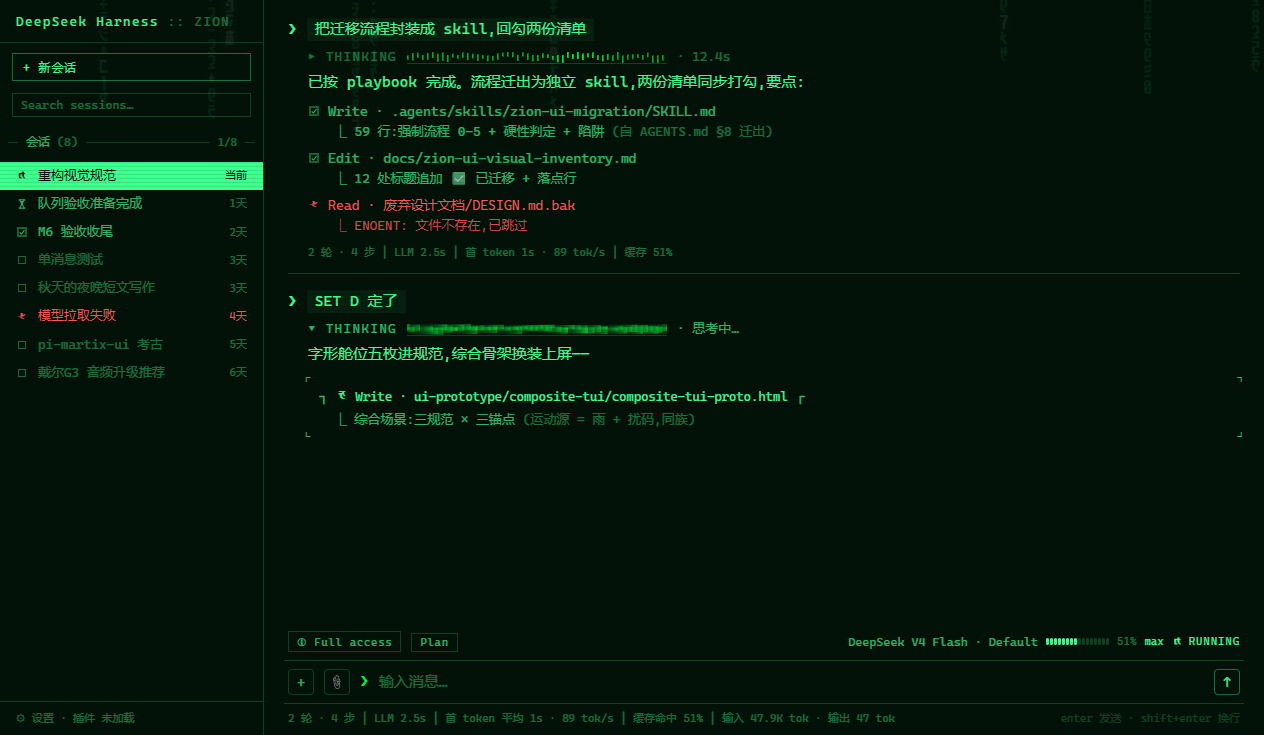
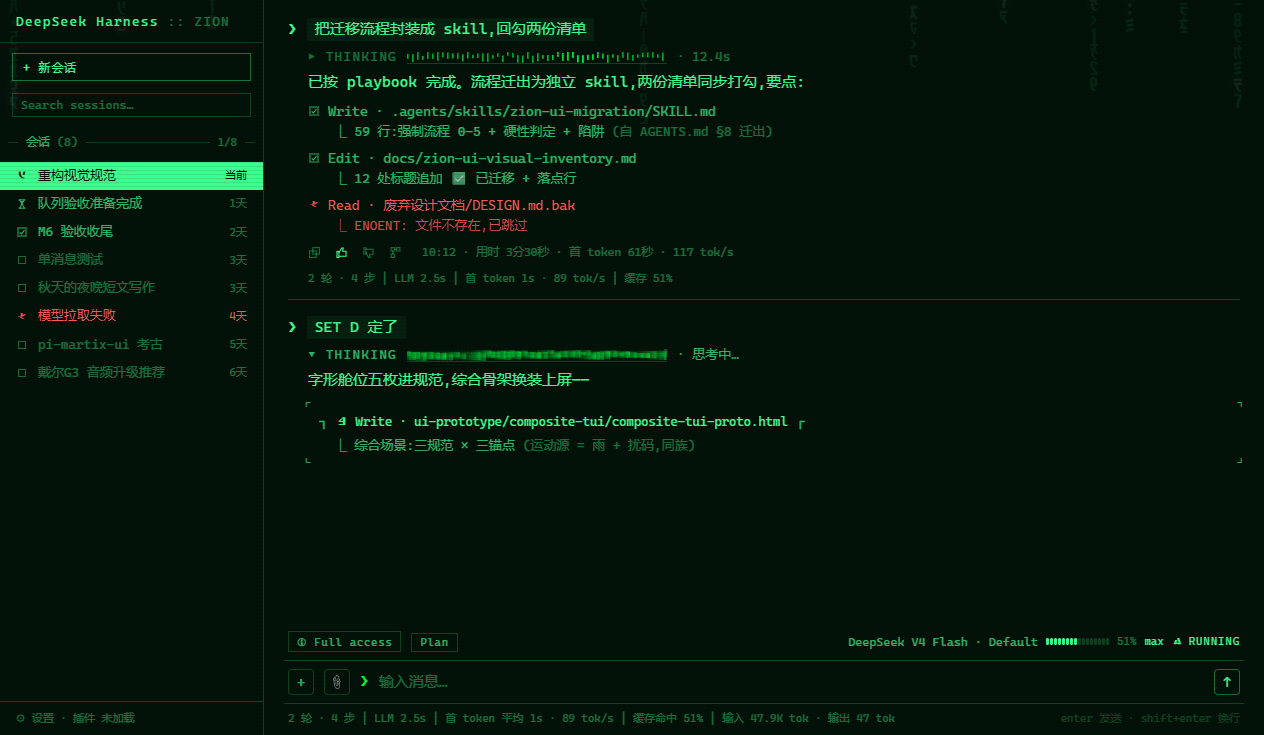
docs(design): §2.14 修订二定案——回复尾固定操作条(复制/赞/踩/分支 + meta 随行,V1 直角拇指),composite 换装

Changed region(s): [[0.2468, 0.3293, 0.6171, 0.6286], [0.4628, 0.0599, 0.4937, 0.0898]]

diff --git a/ui-prototype/msg-action-icons/reply-actions-proto.html b/ui-prototype/msg-action-icons/reply-actions-proto.html
@@ -1,0 +1,108 @@
+<!DOCTYPE html>
+<!-- PROTOTYPE — throwaway: C10 回复尾操作条(修订二)变体微 demo
+     官方口径(3080 实测 + 截图):每轮已结束回复的**底部固定**操作条——
+     复制 / 好的回答(👍,messageFeedback) / 有问题的回答(👎) / 分支(forkSession) 四枚图标常显;
+     meta(10:12 · 用时 3分30秒 · 首 token 61秒 · 117 tok/s)随行,40% 档。
+     裁决问题:赞/踩图标字形 + meta 布局——
+     V1 直角细线拇指 + meta 随行(官方直译) / V2 赞踩 = 舱内 ±(TUI 替代,不画拇指) / V3 直角拇指 + meta 贴行右端。 -->
+<html lang="zh">
+<head>
+<meta charset="utf-8">
+<title>C10 · 回复尾操作条</title>
+<style>
+  :root {
+    --bg: #010a04;
+    --surface: rgba(2, 18, 9, 0.92);
+    --p100: rgba(61, 255, 143, 1);
+    --p70: rgba(61, 255, 143, 0.7);
+    --p40: rgba(61, 255, 143, 0.4);
+    --p20: rgba(61, 255, 143, 0.2);
+    --font: "Share Tech Mono", ui-monospace, "Cascadia Mono", "Courier New", "Sarasa Term SC", "Microsoft YaHei", monospace;
+  }
+  * { margin: 0; padding: 0; box-sizing: border-box; }
+  body { background: var(--bg); color: var(--p100); font: 15px/1.55 var(--font); padding: 28px 32px; }
+  *::-webkit-scrollbar { width: 6px; height: 6px; }
+  *::-webkit-scrollbar-thumb { background: #00ff66; border-radius: 3px; }
+  *::-webkit-scrollbar-track, *::-webkit-scrollbar-corner { background: transparent; }
+
+  h1 { font-size: 13px; letter-spacing: 0.12em; margin-bottom: 4px; }
+  h1 .tag { color: var(--p40); }
+  .rule { color: var(--p70); font-size: 12px; margin-bottom: 20px; }
+  h2 { font-size: 11px; letter-spacing: 0.14em; color: var(--p70); margin: 22px 0 8px; text-transform: uppercase; }
+  h2::before { content: "─ "; color: var(--p40); }
+  h2 .d { color: var(--p40); letter-spacing: 0; text-transform: none; }
+
+  .lane { border: 1px solid var(--p20); background: var(--surface); padding: 14px 20px 16px; margin-bottom: 14px; }
+  .tail { color: var(--p70); font-size: 13px; margin: 0 0 2px 26px; }
+  .tail .x { color: var(--p40); }
+
+  /* 操作条:固定,图标 40% 档,hover 图标升 100%;meta 40% 档 tabular-nums */
+  .abar { display: flex; align-items: center; gap: 14px; margin: 8px 0 0 26px; }
+  .abar .ai { color: var(--p40); display: inline-flex; cursor: pointer; }
+  .abar .ai:hover { color: var(--p100); }
+  .abar .ai.on { color: var(--p100); } /* 已赞/已踩激活态 */
+  .abar .ai svg { width: 13px; height: 13px; display: block; }
+  .abar .meta { color: var(--p40); font-size: 11.5px; font-variant-numeric: tabular-nums; margin-left: 6px; }
+  .abar .meta.r { margin-left: auto; } /* V3 贴右端 */
+
+  .spec { display: flex; gap: 56px; margin: 10px 0 0 26px; }
+  .spec .cell { text-align: center; }
+  .spec .zoom { transform: scale(4); transform-origin: center; margin: 18px 0 8px; display: inline-block; color: var(--p70); }
+  .spec .nm { font-size: 10.5px; color: var(--p40); letter-spacing: 0.08em; margin-top: 2px; }
+
+  .note { color: var(--p40); font-size: 11px; line-height: 1.8; margin-top: 6px; }
+</style>
+</head>
+<body>
+
+<h1>C10 · 回复尾操作条(修订二)<span class="tag">— 固定在每轮已结束回复底部:复制 / 赞 / 踩 / 分支 + meta</span></h1>
+<div class="rule">官方直译:四枚图标常显 40% 档,hover 升 100%;已赞/已踩 = 激活态 100%。meta = 时间 · 用时 · 首 token · tok/s,40% 档。语境统一:一轮回复的最后一行(工具续行)之下。</div>
+
+<h2>V1 · 直角细线拇指 + meta 随行 <span class="d">官方直译:拇指形用 SET D 1px 方角语言重画,meta 跟图标组后</span></h2>
+<div class="lane">
+  <div class="tail">⎿ 12 处标题追加 ✅ 已迁移 + 落点行</div>
+  <div class="abar">
+    <span class="ai" title="复制"><svg viewBox="0 0 12 12"><rect x="4.5" y="1.5" width="6" height="6" fill="none" stroke="currentColor"/><rect x="1.5" y="4.5" width="6" height="6" fill="none" stroke="currentColor"/></svg></span>
+    <span class="ai on" title="好的回答"><svg viewBox="0 0 12 12"><path d="M1.8 5 H3.6 V10.6 H1.8 Z" fill="none" stroke="currentColor"/><path d="M3.6 6.2 L6.2 1.8 H7.6 L7 4.8 H10.2 V9.4 H3.6" fill="none" stroke="currentColor"/></svg></span>
+    <span class="ai" title="有问题的回答"><svg viewBox="0 0 12 12"><path d="M1.8 1.8 H3.6 V7.4 H1.8 Z" fill="none" stroke="currentColor"/><path d="M3.6 6.2 L6.2 10.6 H7.6 L7 7.6 H10.2 V3 H3.6" fill="none" stroke="currentColor"/></svg></span>
+    <span class="ai" title="在新对话中分支"><svg viewBox="0 0 12 12"><rect x="2" y="1.5" width="3" height="3" fill="none" stroke="currentColor"/><rect x="2" y="7.5" width="3" height="3" fill="none" stroke="currentColor"/><rect x="7" y="1.5" width="3" height="3" fill="none" stroke="currentColor"/><path d="M3.5 4.5 V7.5 M5 3 H7" fill="none" stroke="currentColor"/></svg></span>
+    <span class="meta">10:12 · 用时 3分30秒 · 首 token 61秒 · 117 tok/s</span>
+  </div>
+  <div class="spec">
+    <div class="cell"><span class="zoom"><svg width="13" height="13" viewBox="0 0 12 12"><path d="M1.8 5 H3.6 V10.6 H1.8 Z" fill="none" stroke="currentColor"/><path d="M3.6 6.2 L6.2 1.8 H7.6 L7 4.8 H10.2 V9.4 H3.6" fill="none" stroke="currentColor"/></svg></span><div class="nm">赞</div></div>
+    <div class="cell"><span class="zoom"><svg width="13" height="13" viewBox="0 0 12 12"><path d="M1.8 1.8 H3.6 V7.4 H1.8 Z" fill="none" stroke="currentColor"/><path d="M3.6 6.2 L6.2 10.6 H7.6 L7 7.6 H10.2 V3 H3.6" fill="none" stroke="currentColor"/></svg></span><div class="nm">踩</div></div>
+  </div>
+</div>
+
+<h2>V2 · 赞踩 = 舱内 ± <span class="d">不画拇指:好 = 舱内 +,坏 = 舱内 −——与 SET D 空心方块完全同族</span></h2>
+<div class="lane">
+  <div class="tail">⎿ 12 处标题追加 ✅ 已迁移 + 落点行</div>
+  <div class="abar">
+    <span class="ai" title="复制"><svg viewBox="0 0 12 12"><rect x="4.5" y="1.5" width="6" height="6" fill="none" stroke="currentColor"/><rect x="1.5" y="4.5" width="6" height="6" fill="none" stroke="currentColor"/></svg></span>
+    <span class="ai on" title="好的回答"><svg viewBox="0 0 12 12"><rect x="2" y="2" width="8" height="8" fill="none" stroke="currentColor"/><path d="M4 6 H8 M6 4 V8" fill="none" stroke="currentColor"/></svg></span>
+    <span class="ai" title="有问题的回答"><svg viewBox="0 0 12 12"><rect x="2" y="2" width="8" height="8" fill="none" stroke="currentColor"/><path d="M4 6 H8" fill="none" stroke="currentColor"/></svg></span>
+    <span class="ai" title="在新对话中分支"><svg viewBox="0 0 12 12"><rect x="2" y="1.5" width="3" height="3" fill="none" stroke="currentColor"/><rect x="2" y="7.5" width="3" height="3" fill="none" stroke="currentColor"/><rect x="7" y="1.5" width="3" height="3" fill="none" stroke="currentColor"/><path d="M3.5 4.5 V7.5 M5 3 H7" fill="none" stroke="currentColor"/></svg></span>
+    <span class="meta">10:12 · 用时 3分30秒 · 首 token 61秒 · 117 tok/s</span>
+  </div>
+  <div class="spec">
+    <div class="cell"><span class="zoom"><svg width="13" height="13" viewBox="0 0 12 12"><rect x="2" y="2" width="8" height="8" fill="none" stroke="currentColor"/><path d="M4 6 H8 M6 4 V8" fill="none" stroke="currentColor"/></svg></span><div class="nm">赞 = 舱+</div></div>
+    <div class="cell"><span class="zoom"><svg width="13" height="13" viewBox="0 0 12 12"><rect x="2" y="2" width="8" height="8" fill="none" stroke="currentColor"/><path d="M4 6 H8" fill="none" stroke="currentColor"/></svg></span><div class="nm">踩 = 舱−</div></div>
+  </div>
+</div>
+
+<h2>V3 · 直角拇指 + meta 贴行右端 <span class="d">布局变体:图标组居左,meta 推到行尾——操作与信息分边</span></h2>
+<div class="lane">
+  <div class="tail">⎿ 12 处标题追加 ✅ 已迁移 + 落点行</div>
+  <div class="abar">
+    <span class="ai" title="复制"><svg viewBox="0 0 12 12"><rect x="4.5" y="1.5" width="6" height="6" fill="none" stroke="currentColor"/><rect x="1.5" y="4.5" width="6" height="6" fill="none" stroke="currentColor"/></svg></span>
+    <span class="ai on" title="好的回答"><svg viewBox="0 0 12 12"><path d="M1.8 5 H3.6 V10.6 H1.8 Z" fill="none" stroke="currentColor"/><path d="M3.6 6.2 L6.2 1.8 H7.6 L7 4.8 H10.2 V9.4 H3.6" fill="none" stroke="currentColor"/></svg></span>
+    <span class="ai" title="有问题的回答"><svg viewBox="0 0 12 12"><path d="M1.8 1.8 H3.6 V7.4 H1.8 Z" fill="none" stroke="currentColor"/><path d="M3.6 6.2 L6.2 10.6 H7.6 L7 7.6 H10.2 V3 H3.6" fill="none" stroke="currentColor"/></svg></span>
+    <span class="ai" title="在新对话中分支"><svg viewBox="0 0 12 12"><rect x="2" y="1.5" width="3" height="3" fill="none" stroke="currentColor"/><rect x="2" y="7.5" width="3" height="3" fill="none" stroke="currentColor"/><rect x="7" y="1.5" width="3" height="3" fill="none" stroke="currentColor"/><path d="M3.5 4.5 V7.5 M5 3 H7" fill="none" stroke="currentColor"/></svg></span>
+    <span class="meta r">10:12 · 用时 3分30秒 · 首 token 61秒 · 117 tok/s</span>
+  </div>
+</div>
+
+<div class="note">判断点:拇指是官方语义(👍👎)的直译,12×12 方角化后 1× 可读性一般但语义零损耗;舱内 ± 最同族最稳,但 +/− 与「数量增减」歧义相邻,且丢了拇指的通识性。meta 随行(V1/V2)= 官方布局,信息聚在操作旁;贴右端(V3)= 行更干净,但宽窗下 meta 离操作远。已赞激活态此处 mock 为 100% 档(实心由落地再议)。</div>
+
+</body>
+</html>

diff --git a/ui-prototype/composite-tui/composite-tui-proto.html b/ui-prototype/composite-tui/composite-tui-proto.html
@@ -102,14 +102,13 @@
   .meta { color: var(--p40); font-size: 11px; margin: 8px 0 0 20px; }
   /* 回合发丝分隔(DESIGN.md §2.9):全宽 1px、20% 档、上下等距 */
   .sep { border: none; border-top: 1px solid var(--p20); margin: 12px 0; }
-  /* C10 消息级 hover 操作(§2.14 修订):常态零痕迹,hover 消息行尾显形;复制/分支 = V1 直角细线图标 */
-  .body { display: flex; gap: 10px; align-items: baseline; }
-  .body .btext { flex: 1; min-width: 0; }
-  .macts { margin-left: auto; display: inline-flex; gap: 12px; align-items: center; visibility: hidden; flex: none; }
-  .macts .ai { color: var(--p40); display: inline-flex; cursor: pointer; }
-  .macts .ai:hover { color: var(--p100); }
-  .macts .ai svg { width: 13px; height: 13px; display: block; }
-  .u:hover .macts, .body:hover .macts { visibility: visible; }
+  /* C10 回复尾操作条(§2.14 修订二):固定在每轮已结束回复底部;图标 40% 常显,hover/激活 100%;meta 随行 40% */
+  .abar { display: flex; align-items: center; gap: 14px; margin: 8px 0 0 20px; }
+  .abar .ai { color: var(--p40); display: inline-flex; cursor: pointer; }
+  .abar .ai:hover { color: var(--p100); }
+  .abar .ai.on { color: var(--p100); }
+  .abar .ai svg { width: 13px; height: 13px; display: block; }
+  .abar .ameta { color: var(--p40); font-size: 11.5px; font-variant-numeric: tabular-nums; margin-left: 6px; }
   /* 思考块磁带纹(DESIGN.md §2.7) */
   .thinkline { display: flex; gap: 10px; align-items: center; font-size: 13px; color: var(--p70); margin: 6px 0 2px 20px; }
   .thinkline.closed { color: var(--p40); }
@@ -199,22 +198,29 @@
 
   <main class="console">
     <div class="feed">
-      <div class="u"><span class="psign">❯</span><span class="utext">把迁移流程封装成 skill,回勾两份清单</span><span class="macts"><span class="ai" data-k="copy" title="复制"></span></span></div>
+      <div class="u"><span class="psign">❯</span><span class="utext">把迁移流程封装成 skill,回勾两份清单</span></div>
       <div class="thinkline closed"><span>▸</span><span class="st-tag">THINKING</span><span class="tape-track"><canvas data-tape="closed"></canvas></span><span>· 12.4s</span></div>
-      <div class="body"><span class="btext">已按 playbook 完成。流程迁出为独立 skill,两份清单同步打勾,要点:</span><span class="macts"><span class="ai" data-k="copy" title="复制"></span><span class="ai" data-k="branch" title="分支"></span></span></div>
+      <div class="body">已按 playbook 完成。流程迁出为独立 skill,两份清单同步打勾,要点:</div>
       <div class="tl"><span class="ic c-done" data-k="done"></span>Write · .agents/skills/zion-ui-migration/SKILL.md</div>
       <div class="cont2">⎿ 59 行:强制流程 0–5 + 硬性判定 + 陷阱 <span class="x">(自 AGENTS.md §8 迁出)</span></div>
       <div class="tl"><span class="ic c-done" data-k="done"></span>Edit · docs/zion-ui-visual-inventory.md</div>
       <div class="cont2">⎿ 12 处标题追加 ✅ 已迁移 + 落点行</div>
       <div class="tl err"><span class="ic c-err" data-k="err"></span>Read · 废弃设计文档/DESIGN.md.bak</div>
       <div class="cont2 err">⎿ ENOENT: 文件不存在,已跳过</div>
+      <div class="abar">
+        <span class="ai" data-k="copy" title="复制"></span>
+        <span class="ai on" data-k="up" title="好的回答"></span>
+        <span class="ai" data-k="down" title="有问题的回答"></span>
+        <span class="ai" data-k="branch" title="在新对话中分支"></span>
+        <span class="ameta">10:12 · 用时 3分30秒 · 首 token 61秒 · 117 tok/s</span>
+      </div>
       <div class="meta">2 轮 · 4 步 │ LLM 2.5s │ 首 token 1s · 89 tok/s │ 缓存 51%</div>
 
       <hr class="sep">
 
-      <div class="u"><span class="psign">❯</span><span class="utext">SET D 定了</span><span class="macts"><span class="ai" data-k="copy" title="复制"></span></span></div>
+      <div class="u"><span class="psign">❯</span><span class="utext">SET D 定了</span></div>
       <div class="thinkline"><span>▾</span><span class="st-tag">THINKING</span><span class="tape-track"><canvas data-tape="live"></canvas></span><span>· 思考中…</span></div>
-      <div class="body"><span class="btext">字形舱位五枚进规范,综合骨架换装上屏——</span><span class="macts"><span class="ai" data-k="copy" title="复制"></span><span class="ai" data-k="branch" title="分支"></span></span></div>
+      <div class="body">字形舱位五枚进规范,综合骨架换装上屏——</div>
       <div class="cb">
         <span class="cnr ct cl">⌜</span><span class="cnr ct cr">⌝</span><span class="cnr cb2 cl">⌞</span><span class="cnr cb2 cr">⌟</span>
         <span class="cap"><span class="ic c-run" data-k="run"></span>Write · ui-prototype/composite-tui/composite-tui-proto.html</span>
@@ -277,6 +283,8 @@ const ICON = {
   done: `<rect x="2" y="2" width="8" height="8" fill="none" stroke="currentColor"/><path d="M3.7 6.3 L5.4 8 L8.5 4.1" fill="none" stroke="currentColor" stroke-width="1.1"/>`,
   copy: `<rect x="4.5" y="1.5" width="6" height="6" fill="none" stroke="currentColor"/><rect x="1.5" y="4.5" width="6" height="6" fill="none" stroke="currentColor"/>`,
   branch: `<rect x="2" y="1.5" width="3" height="3" fill="none" stroke="currentColor"/><rect x="2" y="7.5" width="3" height="3" fill="none" stroke="currentColor"/><rect x="7" y="1.5" width="3" height="3" fill="none" stroke="currentColor"/><path d="M3.5 4.5 V7.5 M5 3 H7" fill="none" stroke="currentColor"/>`,
+  up: `<path d="M1.8 5 H3.6 V10.6 H1.8 Z" fill="none" stroke="currentColor"/><path d="M3.6 6.2 L6.2 1.8 H7.6 L7 4.8 H10.2 V9.4 H3.6" fill="none" stroke="currentColor"/>`,
+  down: `<path d="M1.8 1.8 H3.6 V7.4 H1.8 Z" fill="none" stroke="currentColor"/><path d="M3.6 6.2 L6.2 10.6 H7.6 L7 7.6 H10.2 V3 H3.6" fill="none" stroke="currentColor"/>`,
 };
 function glitchSvg() {
   const n = ++clipSeq;

diff --git a/DESIGN.md b/DESIGN.md
@@ -203,16 +203,17 @@ Matrix 的辨识度来自黑场、磷光绿、字形与状态叙事,不来自效
 
 > 验证:`ui-prototype/panel-title/`(A 全框嵌题 vs B 单线嵌题,2026-08-29 选 B)。
 
-### 2.14 消息级 hover 操作:复制 / 分支(C10 修订定案)
+### 2.14 回复尾操作条:复制 / 赞 / 踩 / 分支 + meta(C10 修订二定案)
 
-对话流的操作是**消息级**的(对齐官方 `MessageIconActions` 语义):hover 某条消息才在该行尾显形,常态零痕迹;不挂回合缝、不画块级薄底。
+对话流的操作条**固定在每轮已结束回复的底部**(对齐官方 `actions` 条;进行中的回复不显示):
 
-- **操作集** = 复制(所有消息)/ 分支(assistant,`forkSession`)——与官方一致,不发明新操作;hover 时间戳沿用官方语义。
-- **显形位** = 被 hover 消息行的行尾;图标 40% 档,hover 到图标升 100% 档。
-- **图标 = V1 直角细线**(SET D 舱位语言:空心方块 + 1px 细线、方角、currentColor):复制 = 前后叠块;分支 = 竖干 + 直角横枝 + 三枚空心方块节点。
-- 被替代物:块级(回合级)操作挂缝尾嵌字(B 案,粒度错——官方是消息级,修订);「重跑」操作(官方没有,否);官方 lucide 图标(与 SET D 不同族,换)。
+- **操作集** = 复制 / 好的回答(👍,messageFeedback)/ 有问题的回答(👎)/ 分支(`forkSession`)——与官方一致,不发明新操作。
+- **档位** = 图标 40% 档常显,hover 升 100%;已赞/已踩 = 激活态 100% 档。
+- **meta 随行** = `10:12 · 用时 3分30秒 · 首 token 61秒 · 117 tok/s`,40% 档、tabular-nums,跟在图标组后(官方布局)。
+- **图标**(SET D 舱位语言:空心方块/细线、1px、方角、currentColor):复制 = 前后叠块;分支 = 竖干 + 直角横枝 + 三枚空心方块节点;赞/踩 = 直角细线拇指(官方 👍👎 语义直译)。
+- 被替代物:消息级 hover 行尾显形(修订一,官方实为固定条,否);块级缝尾嵌字(初轮 B 案,否);「重跑」(官方没有,否);舱内 ± 赞踩(丢拇指通识性,否);meta 贴行右端(宽窗下离操作远,否)。
 
-> 验证:`ui-prototype/round-block/`(A 挂 user 行 vs B 挂缝尾,初轮选 B 后按官方口径修订为消息级)+ `ui-prototype/msg-action-icons/`(V1 直角细线 / V2 像素块 / V3 折线无节点,2026-08-29 选 V1)。
+> 验证:`ui-prototype/round-block/`(块级 A/B)+ `ui-prototype/msg-action-icons/`(图标 V1 直角细线)+ `ui-prototype/msg-action-icons/reply-actions-proto.html`(回复尾条 V1 拇指随行 / V2 舱内± / V3 meta 贴右,2026-08-29 选 V1)。
 
 ## 3. 不可交换的边界
 
